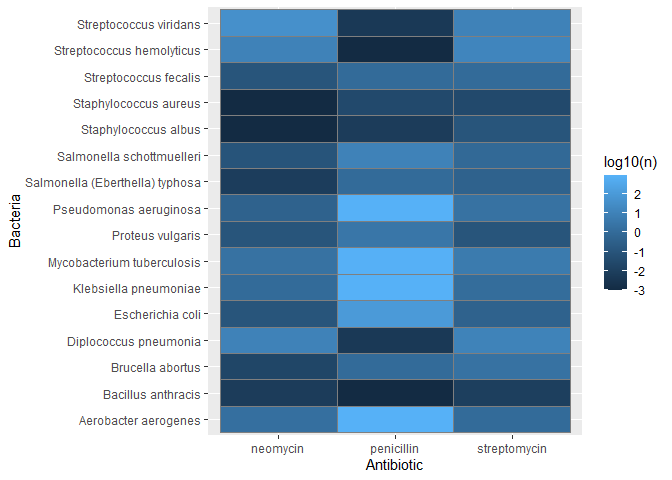
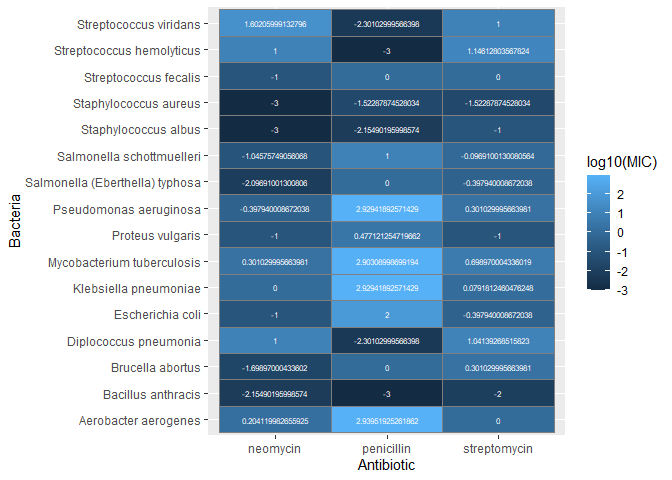
Assignment 5 Corrections

diff --git a/challenges/c05-antibiotics-assignment.md b/challenges/c05-antibiotics-assignment.md
@@ -167,7 +167,9 @@ df_antibiotics %>%
     values_to = "n",
     cols = c('penicillin', 'streptomycin', 'neomycin')
   ) %>% 
-  
+  mutate(
+    bacteria = fct_reorder(bacteria, n)
+    ) %>% 
   ggplot(aes(bacteria,n, color = gram )) +
   geom_point() +
   facet_wrap(vars(antibiotic))+
@@ -175,7 +177,7 @@ df_antibiotics %>%
   labs(
     x = "Bacteria",
     y = "MIC"
-  )+
+  ) +
   scale_y_log10()
 ```
 
@@ -205,9 +207,10 @@ df_antibiotics %>%
   labs(
     x = "MIC",
     y = "Antibiotic"
-  )+
-  facet_wrap(vars(bacteria))+
-  scale_x_log10()
+  ) +
+  facet_wrap(vars(bacteria)) +
+  scale_x_log10() +
+  theme(strip.text = element_text(size = 6))
 ```
 
 ![](c05-antibiotics-assignment_files/figure-gfm/q1.2-1.png)<!-- -->
@@ -236,7 +239,7 @@ df_antibiotics %>%
   labs(
     x = "Antibiotic",
     y = "MIC"
-  )+
+  ) +
   scale_y_log10()
 ```
 
@@ -262,12 +265,14 @@ df_antibiotics %>%
   ) %>% 
   group_by(bacteria) %>% 
   ggplot(aes(bacteria,antibiotic )) +
-  geom_bin_2d(aes(fill = log10(n)),color = "grey50")+
+  geom_bin_2d(aes(fill = log10(n)),color = "grey50") +
   coord_flip() +
   labs(
     x = "Bacteria",
     y = "Antibiotic"
-  )
+  ) +
+  geom_text(aes(label = log10(n)), color = "white", size = 2) +
+  scale_fill_continuous(name = "log10(MIC)") 
 ```
 
 ![](c05-antibiotics-assignment_files/figure-gfm/q1.4-1.png)<!-- -->
@@ -292,14 +297,14 @@ df_antibiotics %>%
   ) %>%   
   group_by(bacteria) %>% 
   ggplot(aes(bacteria,n)) +
-  geom_point(aes(shape=antibiotic, color=antibiotic))+
-  facet_wrap(vars(gram))+
-  coord_flip()+
+  geom_point(aes(shape=antibiotic, color=antibiotic)) +
+  facet_wrap(~gram, scales = "free_x") +
   labs(
     x = "Bacteria",
     y = "MIC"
-  )+
-  scale_y_log10()
+  ) +
+  scale_y_log10() +
+  theme(axis.text.x = element_text(angle = 90, vjust = 0.5, hjust=1))
 ```
 
 ![](c05-antibiotics-assignment_files/figure-gfm/q1.5-1.png)<!-- -->
@@ -325,18 +330,27 @@ opportunity to think about why this is.**
 
 *Observations* - What is your response to the question above?
 
-- I do not have any graphs that split by genera so it’s a bit difficult
-  to answer based on that. But I can answer the based on Gram stain. For
-  neomycin & streptomycin, the gram stain didn’t seem to have a
-  correlation with the amount of neomycin & streptomycin needed.
-  However,for penicillin, the negative gram had a lower MIC while gram
-  positive had much high MIC. This predicts a possible correlation
-  between gram strain and their MIC need for the antibiotic penicillin,
+- Gram stain
+
+  - For neomycin & streptomycin, the gram stain didn’t seem to have a
+    correlation with the amount of neomycin & streptomycin needed.
+  - However,for penicillin, the negative gram had a lower MIC while gram
+    positive had much high MIC. This predicts a possible correlation
+    between gram strain and their MIC need for the antibiotic
+    penicillin.
+
+- Genera
+
+  - For staphylococcus, neomycim gave the lowest MIC, then was
+    penicillin and then streptomycin.
+  - For salmonella, neomcyin also gave the lowest MIC but wasn’t as low
+    as staphylococcus’s MIC.
+  - For streptococcus, penicillin gave the lowest MIC.
 
 - Which of your visuals above (1 through 5) is **most effective** at
   helping to answer this question?
 
-  - Graph 3
+  - Graph 5
 
 - Why?
 
